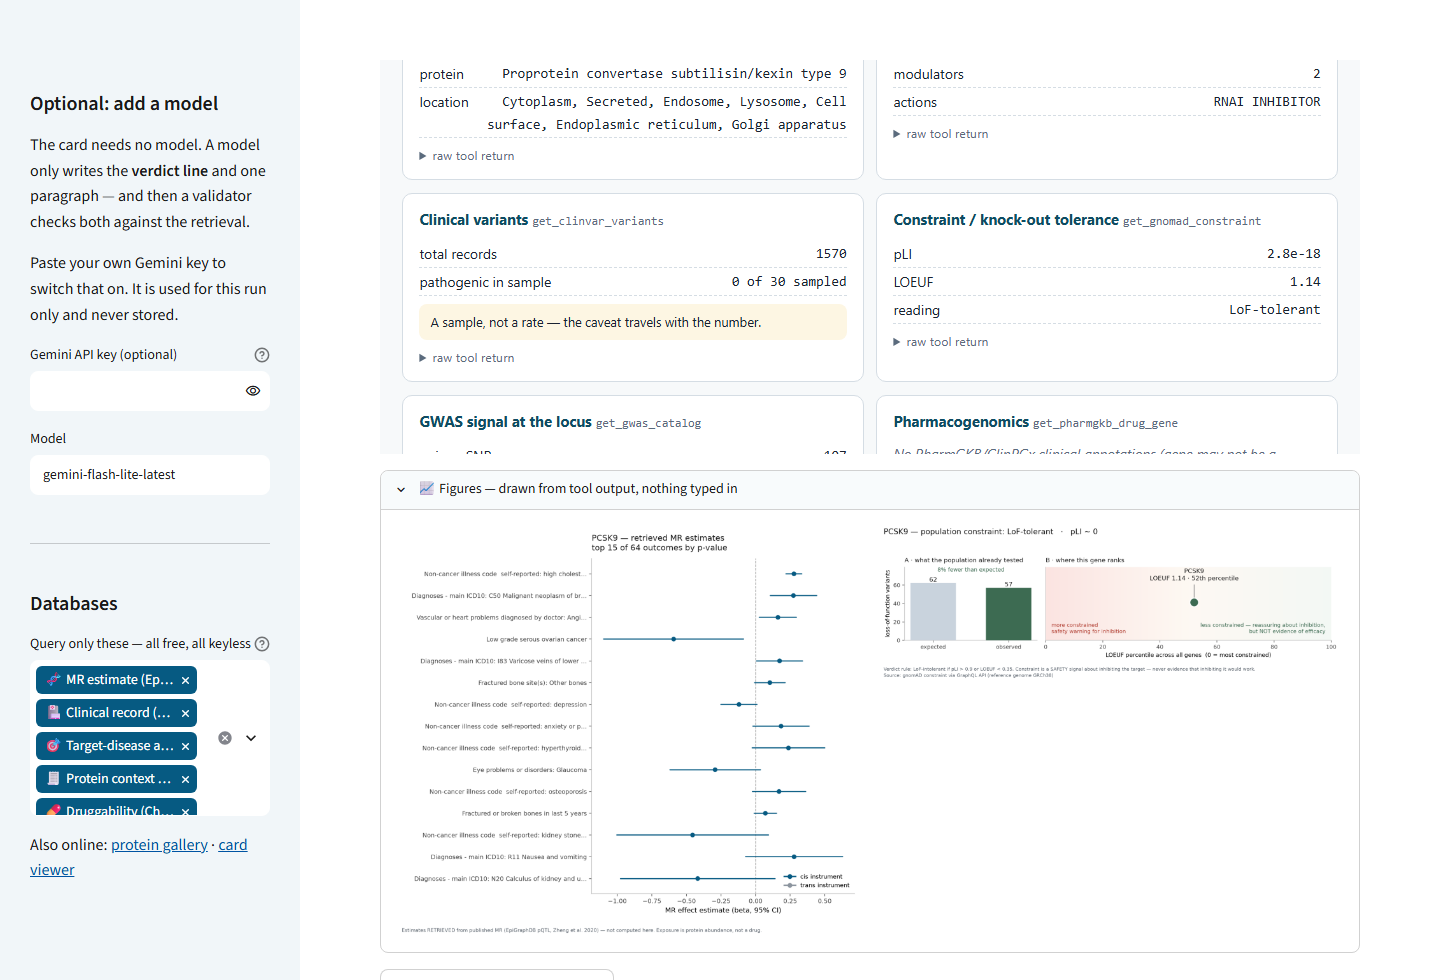
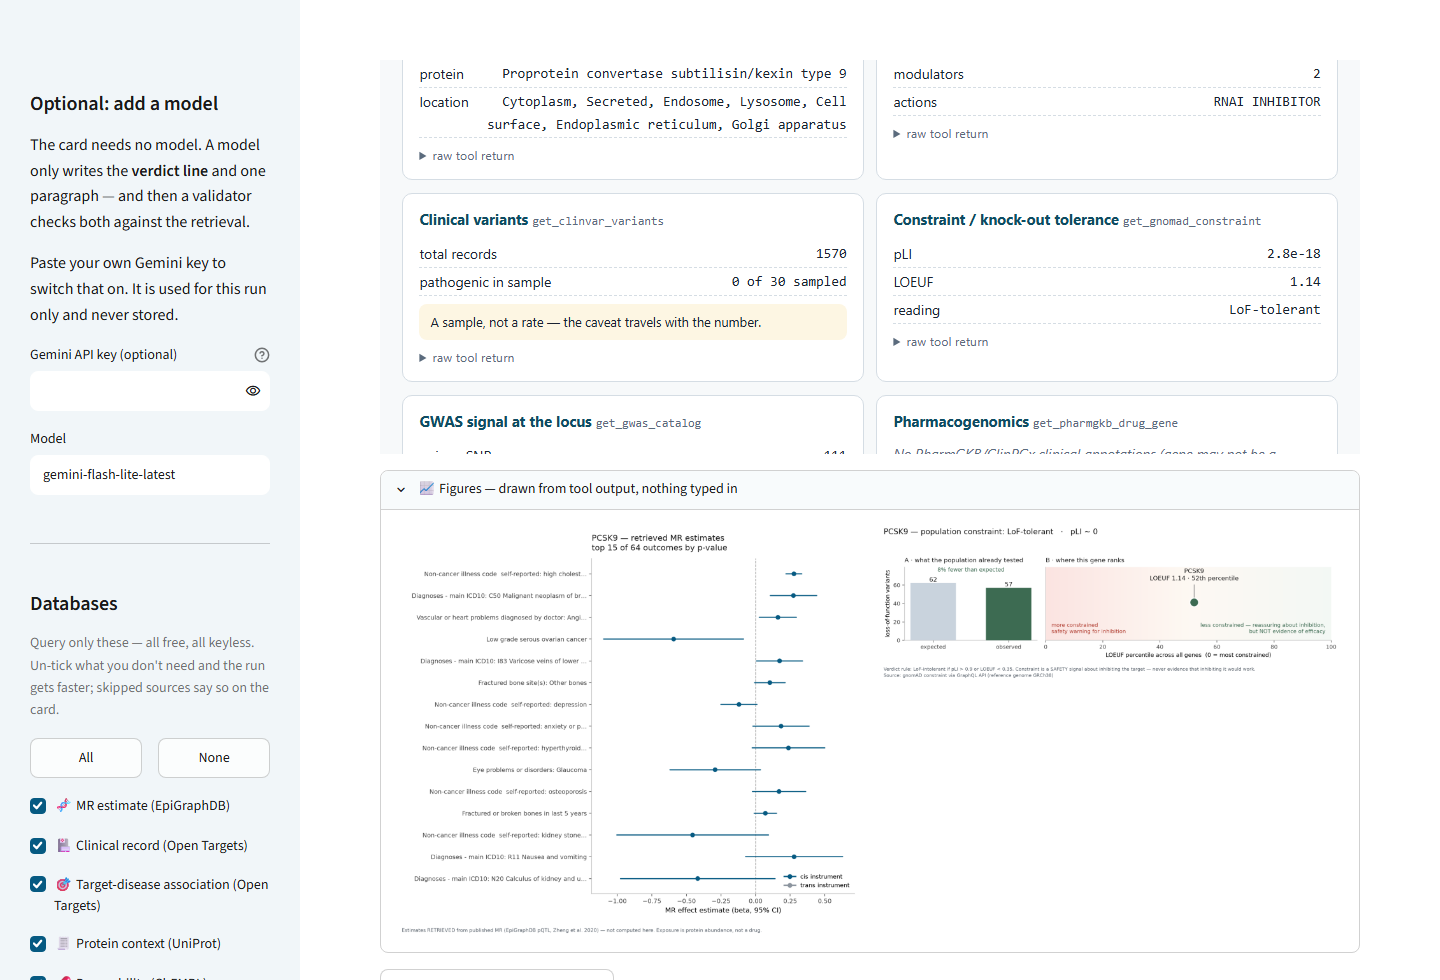
v0.6.5: checkbox database picker - every source name fully visible
Multiselect chips truncated the labels; the picker is now one checkbox per
source (pictogram + full name always readable) with All / None buttons. The
screenshot tour retaken; the pick-your-sources shot now shows the checkbox
sidebar. Includes the pictogram-labels commit that missed the #28 merge
window, cherry-picked.

Changed region(s): [[0.0, 0.6429, 0.1875, 0.9796]]

diff --git a/app_screenshot.py b/app_screenshot.py
@@ -77,19 +77,27 @@ with sync_playwright() as p:
     page.screenshot(path=f"{OUT}/app_06_gallery.png")
     print("saved app_06_gallery.png")
 
-    # 7 — pick your databases: un-tick six sources, build with three, and show the
-    # sidebar chips next to a card whose skipped panels say "tool not called"
+    # 7 — pick your databases: un-tick six checkboxes, build with three, and show the
+    # sidebar next to a card whose skipped panels say "tool not called in this run".
+    # NOTE: the checkbox aria-label is the label WITHOUT its pictogram (Streamlit
+    # strips it), and a click can land during a rerun — hence the retry loop.
     page.get_by_role("tab", name="Build a card").click()
     page.wait_for_timeout(1000)
-    ms = page.locator('[data-testid="stMultiSelect"]')
-    for label in ["🏥 Clinical record (Open Targets)",
-                  "🎯 Target-disease association (Open Targets)",
-                  "💊 Druggability (ChEMBL)", "🩺 Clinical variants (ClinVar)",
-                  "⚗ Pharmacogenomics (ClinPGx)", "📈 GWAS signal (GWAS Catalog)"]:
-        btn = ms.get_by_role("button", name=f"Remove {label}")
-        if btn.count():
-            btn.first.click()
-            page.wait_for_timeout(400)
+
+    def _uncheck(plain):
+        for _ in range(5):
+            box = page.get_by_role("checkbox", name=plain)
+            if box.count() and not box.first.is_checked():
+                return
+            page.locator(f'[data-testid="stCheckbox"]:has-text("{plain}")') \
+                .first.locator("label").click()
+            page.wait_for_timeout(700)
+
+    for plain in ["Clinical record (Open Targets)",
+                  "Target-disease association (Open Targets)",
+                  "Druggability (ChEMBL)", "Clinical variants (ClinVar)",
+                  "Pharmacogenomics (ClinPGx)", "GWAS signal (GWAS Catalog)"]:
+        _uncheck(plain)
     page.get_by_role("button", name="Build the evidence card").click()
     # the PREVIOUS card (all nine sources) stays on screen while the subset run is in
     # flight, so waiting for the Download button returns immediately — instead poll the

diff --git a/app.py b/app.py
@@ -256,13 +256,18 @@ with st.sidebar:
     model = st.text_input("Model", value=MODEL_DEFAULT)
     st.divider()
     st.header("Databases")
-    sel_labels = st.multiselect(
-        "Query only these \u2014 all free, all keyless",
-        list(PLAN_LABELS),
-        default=list(PLAN_LABELS),
-        help="Un-tick what you don't need and the run gets faster. Rows for sources "
-             "you skip say 'tool not called in this run' \u2014 the card never pretends.",
-    )
+    st.caption("Query only these \u2014 all free, all keyless. Un-tick what you don't "
+               "need and the run gets faster; skipped sources say so on the card.")
+
+    def _set_all_dbs(value: bool) -> None:
+        for k in PLAN_LABELS:
+            st.session_state[f"db_{k}"] = value
+
+    ca, cb = st.columns(2)
+    ca.button("All", use_container_width=True, on_click=_set_all_dbs, args=(True,))
+    cb.button("None", use_container_width=True, on_click=_set_all_dbs, args=(False,))
+    sel_labels = [k for k in PLAN_LABELS
+                  if st.checkbox(k, value=True, key=f"db_{k}")]
     st.markdown(
         "Also online: [protein gallery](https://ds4cabs.github.io/CausalSentinel/dossiers/) \u00b7 "
         "[card viewer](https://ds4cabs.github.io/CausalSentinel/viewer/)"
